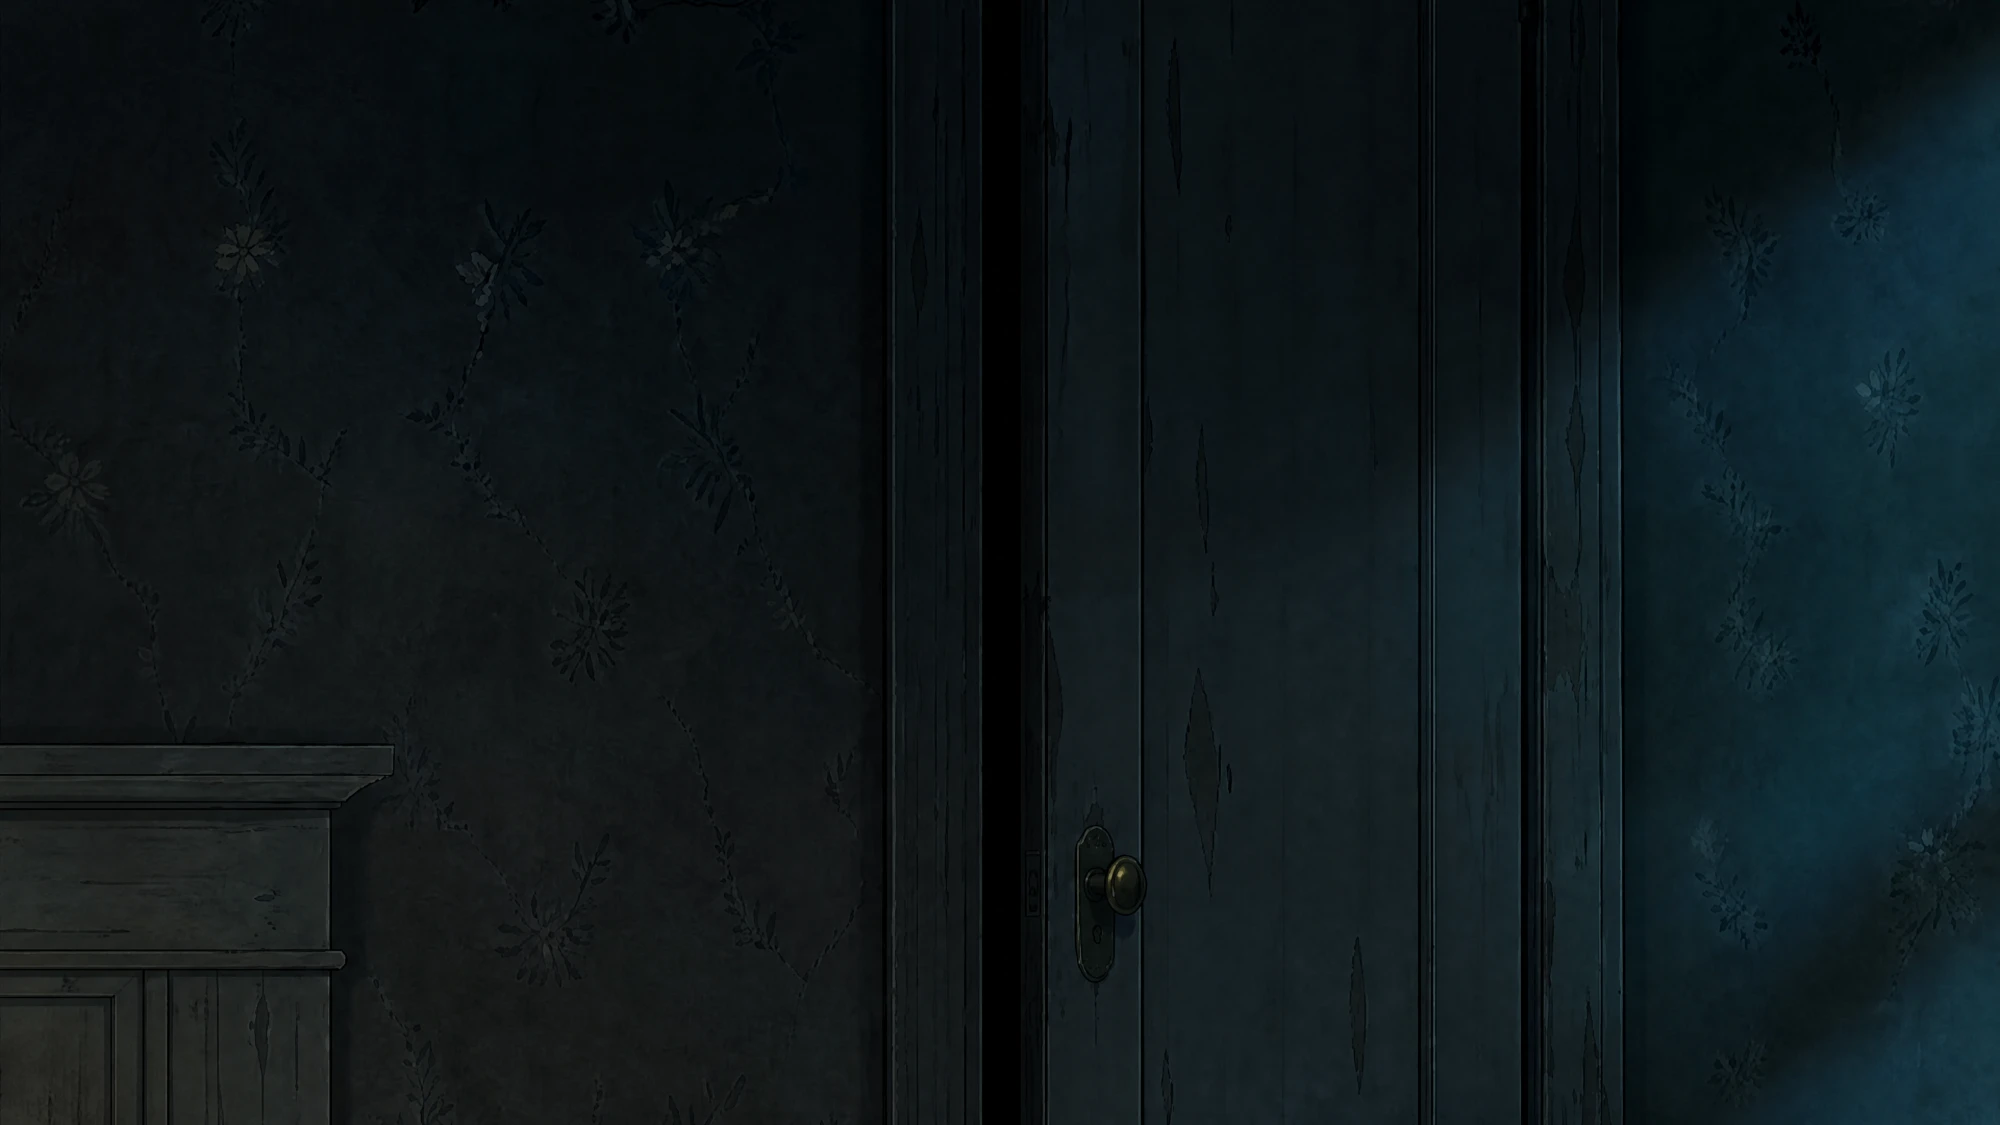
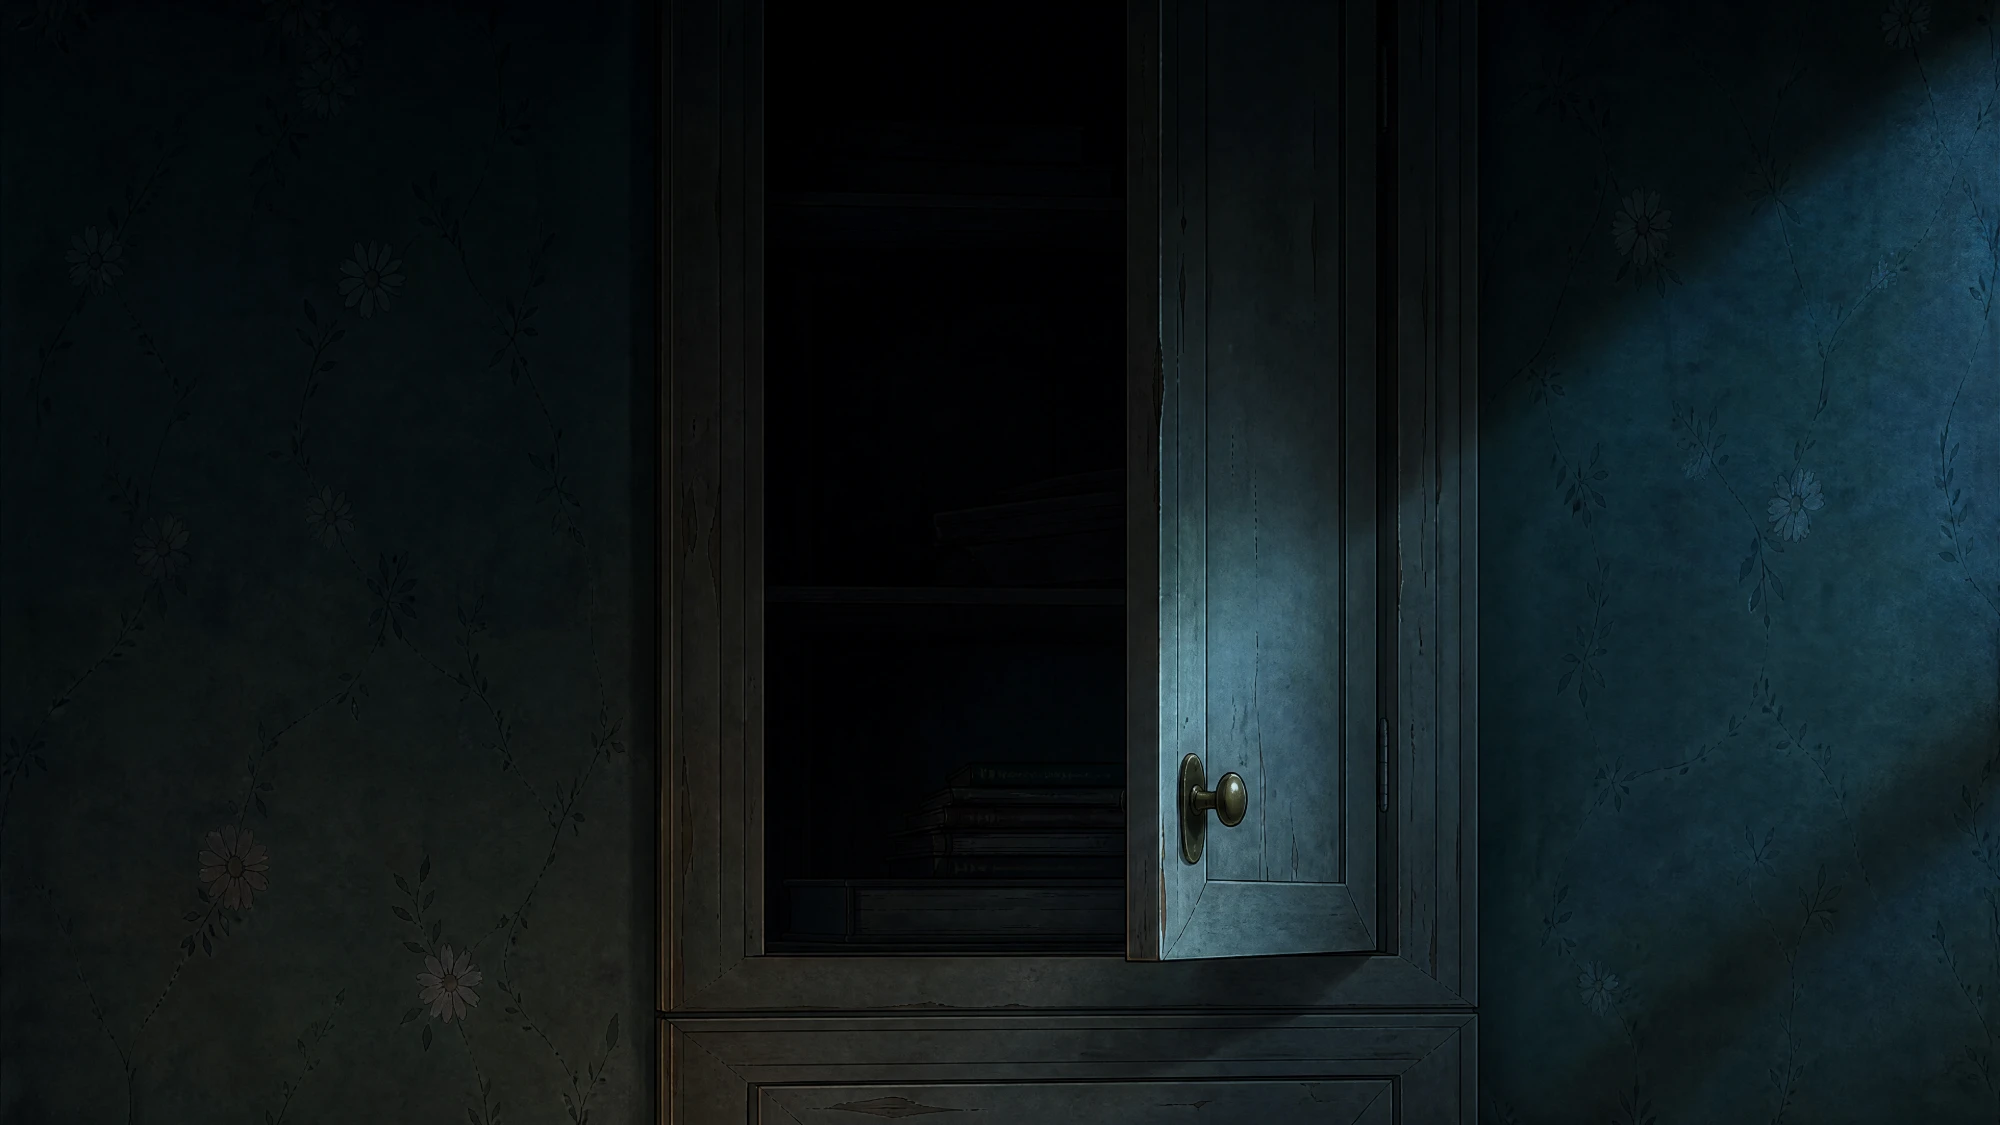
SH080: end v2 approved
Claude-Session: https://claude.ai/code/session_01TcVNYSZDPrfyS5ZdR6sMpF

diff --git a/log.md b/log.md
@@ -87,4 +87,4 @@
 - Пользователь: шкаф в комнате — верхняя дверца открыта наполовину, видны книги, нижняя закрыта (как в v1). v1f (9ce7b892, верх прикрыт до щели) ОТКЛОНЁН. Старт = v1 f4b35df4 → УТВЕРЖДЁН.
 - Смысл шота без «щели»: лампа гаснет на 3,6 с → книги и полки проваливаются в черноту; наезд в тёмное нутро шкафа; в SH090 луч находит лицо Жильца между полками.
 - Конец v2: gpt-image-2 правка v1 (наезд к верхней секции, без Рут, лампа погасла). Задача gt_aushTSOE4QyfsAMoau4za1rpuNAtp1yi.
-- Конец v2: 697fbef4 — ждёт проверки.
+- Конец v2: 697fbef4 — УТВЕРЖДЁН: тот же двухъярусный шкаф, верх открыт наполовину (ручка у края, петли справа), внутри чернота, книги еле видны, низ закрыт; Рут нет, тёплого света нет, холодный свет справа.
